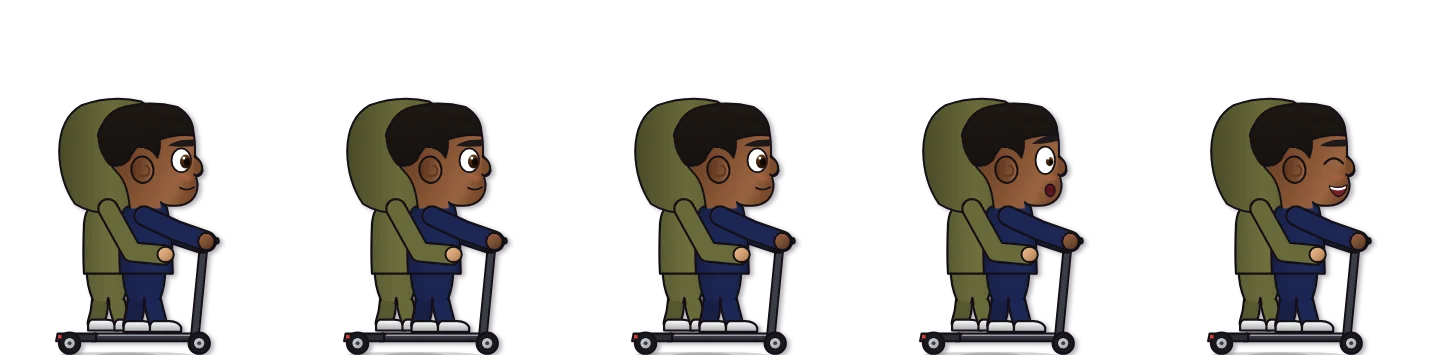
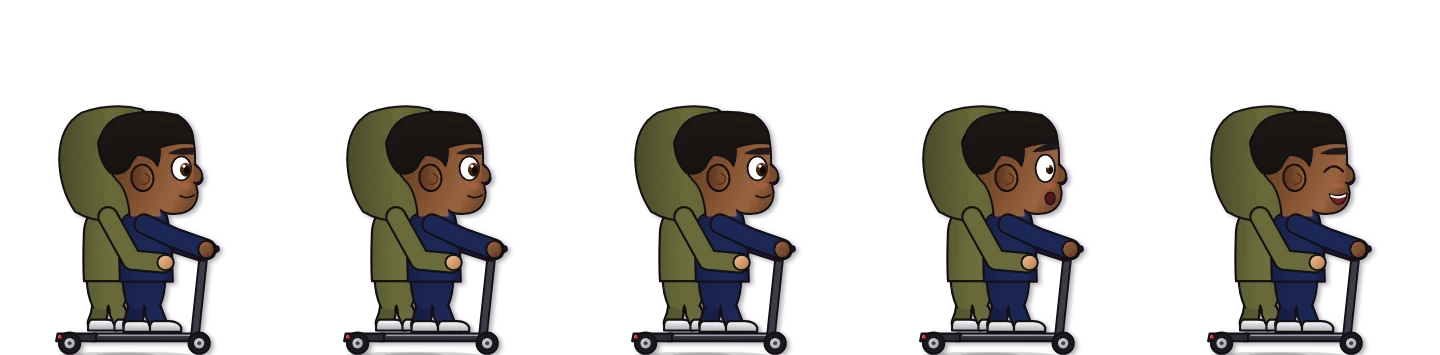
Jummah Dash: e-scooter riders' legs 35% shorter too (handlebar follows)
Claude-Session: https://claude.ai/code/session_01YJ1z4udzgwtjsqdwzKAzGp

diff --git a/jummahdash/demo/game.js b/jummahdash/demo/game.js
@@ -52,7 +52,7 @@ const HERO_FR = ['run0_normal', 'run1_normal', 'run2_normal', 'run3_normal', 'ru
 const FR = n => HERO_FR.indexOf(n);
 let NPC_META = {};   // filled from art/npc.json (hd/build_npc_v3.py)
 let NPC_KEYS = [], ESC_KEYS = [], CHAIR_KEYS = [], NPC_W = 0;
-const NPC_H = {"pc_m": "3558e2cda4", "pc_f": "d3ca09098e", "pcso": "97082a3efa", "warden": "3111be9fb0", "fan_dad": "685ba5be8c", "fan_f": "bd2f3ff5bf", "fan_kid": "ce309ba878", "blonde": "bdc4a1a155", "abaya": "3f5693513d", "teen": "e0cc4f3780", "aunty": "e6aa4be39c", "uncle": "b8076a8d1d", "nurse": "8d7181607e", "elder": "f06b987256", "builder": "e66dda48a2", "rider": "76f9a2c0ff", "rider_g": "705462ce67", "rider_o": "904b220e1a", "schoolboy": "fd1a660784", "shop": "400b7208b0", "lad": "5427630c3b", "postie": "01e27b9c50", "sehri": "f463041407", "v_woman_0": "5174f35921", "v_woman_1": "160b83ea5e", "v_woman_2": "8ef4b19768", "v_woman_3": "7a35813ecb", "v_woman_4": "16ee36be5c", "v_woman_5": "83d4fb0181", "v_woman_6": "407c80ecfb", "v_woman_7": "5987da499e", "v_hijabi_0": "763c4231c8", "v_hijabi_1": "a50539b123", "v_hijabi_2": "cbdbcd5e34", "v_hijabi_3": "727ada3a77", "v_hijabi_4": "c690619a5b", "v_hijabi_5": "93c9cb65db", "v_hijabi_6": "16ff68d51b", "v_hijabi_7": "ee08c0e916", "v_aunty_0": "e6aa4be39c", "v_aunty_1": "30e65c18fe", "v_aunty_2": "17dbb70caa", "v_aunty_3": "d36c2caf13", "v_aunty_4": "8a78cc31b6", "v_aunty_5": "784a64fe7d", "v_man_0": "82ab48d725", "v_man_1": "ff5f9fdf62", "v_man_2": "88b0f2215e", "v_man_3": "6640292e19", "v_man_4": "ba3268830d", "v_man_5": "1d56a6a4cd", "v_man_6": "81bc514887", "v_man_7": "8d80a093c2", "v_student_0": "9b4d21a6c7", "v_student_1": "60ebba8183", "v_student_2": "05c32aba56", "v_student_3": "8cc9c764ab", "v_student_4": "750a752d5a", "v_student_5": "1b65ef83b6", "v_student_6": "0caeb47d16", "v_student_7": "6bf4f6fcb9", "v_student_8": "aa9dd5c10a", "v_student_9": "2c85c26c46", "v_police_0": "255816cb35", "v_police_1": "6bfb092797", "v_police_2": "af49ff93a0", "v_police_3": "50ea5153f0", "v_police_4": "6bfb092797", "v_police_5": "af49ff93a0", "v_nurse_0": "58010a757c", "v_nurse_1": "bacb097ccf", "v_nurse_2": "cd26ce8066", "v_nurse_3": "1f332206f9", "v_nurse_4": "58010a757c", "v_builder_0": "ef6c0e90e0", "v_builder_1": "71794ba105", "v_builder_2": "1d512e945c", "v_builder_3": "a148dc5162", "v_builder_4": "0305b4ca00", "v_fan_0": "d3a10a47a2", "v_fan_1": "cc020b4723", "v_fan_2": "87c66ce327", "v_fan_3": "0531fe318e", "v_fan_4": "43009cf915", "chair_0": "50f7860105", "chair_1": "aa1323b9dc", "chair_2": "59380dcac0", "chair_3": "1d3aebd3d0", "chair_4": "99bd61c919", "chair_5": "a19d80c6e7", "chair_6": "7cbeb253a5", "chair_7": "91b79ad117", "v_fandad_0": "4ec464e923", "v_fandad_1": "754eb33e55", "v_fandad_2": "d3b2b24118", "v_fandad_3": "18746e07df", "eesc_a": "a2ac5d8aed", "eesc_b": "35d3514fc0", "eesc_c": "58d3d153a3", "mobility": "4f2caa3907"}; const npcImg = {};
+const NPC_H = {"pc_m": "3558e2cda4", "pc_f": "d3ca09098e", "pcso": "97082a3efa", "warden": "3111be9fb0", "fan_dad": "685ba5be8c", "fan_f": "bd2f3ff5bf", "fan_kid": "ce309ba878", "blonde": "bdc4a1a155", "abaya": "3f5693513d", "teen": "e0cc4f3780", "aunty": "e6aa4be39c", "uncle": "b8076a8d1d", "nurse": "8d7181607e", "elder": "f06b987256", "builder": "e66dda48a2", "rider": "76f9a2c0ff", "rider_g": "705462ce67", "rider_o": "904b220e1a", "schoolboy": "fd1a660784", "shop": "400b7208b0", "lad": "5427630c3b", "postie": "01e27b9c50", "sehri": "f463041407", "v_woman_0": "5174f35921", "v_woman_1": "160b83ea5e", "v_woman_2": "8ef4b19768", "v_woman_3": "7a35813ecb", "v_woman_4": "16ee36be5c", "v_woman_5": "83d4fb0181", "v_woman_6": "407c80ecfb", "v_woman_7": "5987da499e", "v_hijabi_0": "763c4231c8", "v_hijabi_1": "a50539b123", "v_hijabi_2": "cbdbcd5e34", "v_hijabi_3": "727ada3a77", "v_hijabi_4": "c690619a5b", "v_hijabi_5": "93c9cb65db", "v_hijabi_6": "16ff68d51b", "v_hijabi_7": "ee08c0e916", "v_aunty_0": "e6aa4be39c", "v_aunty_1": "30e65c18fe", "v_aunty_2": "17dbb70caa", "v_aunty_3": "d36c2caf13", "v_aunty_4": "8a78cc31b6", "v_aunty_5": "784a64fe7d", "v_man_0": "82ab48d725", "v_man_1": "ff5f9fdf62", "v_man_2": "88b0f2215e", "v_man_3": "6640292e19", "v_man_4": "ba3268830d", "v_man_5": "1d56a6a4cd", "v_man_6": "81bc514887", "v_man_7": "8d80a093c2", "v_student_0": "9b4d21a6c7", "v_student_1": "60ebba8183", "v_student_2": "05c32aba56", "v_student_3": "8cc9c764ab", "v_student_4": "750a752d5a", "v_student_5": "1b65ef83b6", "v_student_6": "0caeb47d16", "v_student_7": "6bf4f6fcb9", "v_student_8": "aa9dd5c10a", "v_student_9": "2c85c26c46", "v_police_0": "255816cb35", "v_police_1": "6bfb092797", "v_police_2": "af49ff93a0", "v_police_3": "50ea5153f0", "v_police_4": "6bfb092797", "v_police_5": "af49ff93a0", "v_nurse_0": "58010a757c", "v_nurse_1": "bacb097ccf", "v_nurse_2": "cd26ce8066", "v_nurse_3": "1f332206f9", "v_nurse_4": "58010a757c", "v_builder_0": "ef6c0e90e0", "v_builder_1": "71794ba105", "v_builder_2": "1d512e945c", "v_builder_3": "a148dc5162", "v_builder_4": "0305b4ca00", "v_fan_0": "d3a10a47a2", "v_fan_1": "cc020b4723", "v_fan_2": "87c66ce327", "v_fan_3": "0531fe318e", "v_fan_4": "43009cf915", "chair_0": "50f7860105", "chair_1": "aa1323b9dc", "chair_2": "59380dcac0", "chair_3": "1d3aebd3d0", "chair_4": "99bd61c919", "chair_5": "a19d80c6e7", "chair_6": "7cbeb253a5", "chair_7": "91b79ad117", "v_fandad_0": "4ec464e923", "v_fandad_1": "754eb33e55", "v_fandad_2": "d3b2b24118", "v_fandad_3": "18746e07df", "eesc_a": "e907355984", "eesc_b": "576b803538", "eesc_c": "8155bd2a06", "mobility": "4f2caa3907"}; const npcImg = {};
 const npcGet = k => npcImg[k] || (npcImg[k] = img('art/npc_' + k + '.webp?h=' + (NPC_H[k] || 1)));   // loaded the first time someone of that kind walks on
 fetch('art/npc.json?h=cb2784f590').then(r => r.json()).then(m => { NPC_META = m; const K = Object.keys(m);
   NPC_KEYS = K.filter(k => m[k].type === 'walk'); ESC_KEYS = K.filter(k => m[k].type === 'esc' && k[0] === 'e'); CHAIR_KEYS = K.filter(k => k.startsWith('chair_'));

diff --git a/jummahdash/demo/sw.js b/jummahdash/demo/sw.js
@@ -1,11 +1,11 @@
 /* Jummah Dash: keeps the whole game on the phone. First visit downloads it once;
    after that it opens from the phone, and an update only downloads the files that changed. */
-const BUILD = '20261122160322';
+const BUILD = '20261122160524';
 const FILES = {
 "hd/landmarks_hd.js": "3529926a9b",
 "hd/cars_v3.js": "0f6989a22c",
 "hd/foodbank.png": "8f4400d5e6",
-"game.js": "d467d317d8",
+"game.js": "d76f2e1d3d",
 "landmarks.js": "44e96a5cad",
 "vehicles.js": "32fdac20ce",
 "manifest.webmanifest": "636eadba05",
@@ -235,9 +235,9 @@ const FILES = {
 "art/npc_v_fandad_1.webp": "754eb33e55",
 "art/npc_v_fandad_2.webp": "d3b2b24118",
 "art/npc_v_fandad_3.webp": "18746e07df",
-"art/npc_eesc_a.webp": "a2ac5d8aed",
-"art/npc_eesc_b.webp": "35d3514fc0",
-"art/npc_eesc_c.webp": "58d3d153a3",
+"art/npc_eesc_a.webp": "e907355984",
+"art/npc_eesc_b.webp": "576b803538",
+"art/npc_eesc_c.webp": "8155bd2a06",
 "art/npc_mobility.webp": "4f2caa3907"
 };          // { path: hash } for every file the game uses
 const CACHE = 'jd-' + BUILD;

diff --git a/jummahdash/demo/game.html b/jummahdash/demo/game.html
@@ -265,6 +265,6 @@ canvas{position:absolute;inset:0;width:100%;height:100%;display:block}
 <script src="vehicles.js?h=32fdac20ce"></script>
 <script src="hd/cars_v3.js?h=0f6989a22c"></script>
 <script src="hd/landmarks_hd.js?h=3529926a9b"></script>
-<script src="game.js?h=d467d317d8"></script>
+<script src="game.js?h=d76f2e1d3d"></script>
 </body>
 </html>

diff --git a/CLAUDE.md b/CLAUDE.md
@@ -145,7 +145,7 @@ Owner: Summar (SMR Graphics / SMR Digital / SMR Plates, Luton). He edits the sit
 - Workflow: `git pull --rebase` before you start and before you push; commit only your file(s); run `python3 .github/tools/fk3d_shot.py road /tmp/x.jpg` (and `pipes`) and fix any JS errors before pushing; compare its steps/s number before and after your change (a big drop = too heavy). Add a line for your work under "Flappy Kabootar" → "3D test" in this file only if you are the Engine chat; others put their notes as a comment at the top of their own file.
 
 ## Jummah Dash demo (`/jummahdash/demo/`)
-- Hidden demo (not linked, noindex) of Jummah Dash, an SMR Original: Jetpack Joyride-style landscape runner set in Luton (hold to fly with the pressure-cooker jetpack, £1 coins, sparking cables, firework rockets with a warning; cast walk on the wide front pavement, traffic behind never touches the pavement). index.php serves game.html with no-cache; game.js + copies of Flappy's landmarks.js/vehicles.js (drawn at screen resolution) + art/ (hero sprite sheet, cast sprites, logo, badge). Work folder /home/claude/jummah-dash (master); deploy with `python3 deploy.py` there (copies files, stamps each with its own content hash ?h=, writes sw.js from sw.template.js). Installable app: manifest.webmanifest + art/icon-*.png, service worker sw.js keeps the whole game on the phone (opens offline; an update only downloads the files whose hash changed; new version takes over when the home screen is showing), loading screen #load, "Get the app" tile (Android install prompt / iPhone Safari steps). Missions: 3 active (MISSIONS in game.js, localStorage jd_ms), stars, ranks. Shop (#shop, ITEMS in game.js, localStorage jd_shop): Utilities = head starts 500m/1000m (uncle's silver E10-style Corolla, drawCorolla; buttons #hsBox pop up as the run starts; no hazards during it, ends with 'CHEERS UNCLE!'), Second Chance (#saveMe, 3 s countdown, one per run), extra gadget slot; Gadgets (2 slots, 3rd buyable): Charity Tin (coin magnet), Ammi's Chappal (drop faster), Lucky Dates (rides x2), Eidi Pouch (Eidi x2), Golden Misbaha (start on a random ride); Outfits: classic, puffer, Eid thobe, Luton Town kit, Moroccan djellaba (hero sheets art/hero3_<outfit>.png from kabootar-jet/hero/draw_hd.py OUTFIT; home art stays the classic thobe). Rides from the gift box: tuk-tuk, magic carpet, Flappy Kabootar (SMR crossover: the exact Flappy pigeon art at 5x, hero hangs from its feet, tap to flap, pulls in coins) and gravity sandals (tap to flip between the pavement and the top of the screen). Rocket clusters of 3 after 700m. Buildings: every Flappy Kabootar landmark (window.LM_ORDER, 57) dealt as a shuffled deck like Flappy (all appear before any repeat; SETS frasers→station→hatfactory, Wardown field→lake→bridge→funfair, welcome→airport stay together), your own masjid skipped; LM_ANIM moving parts baked into each building picture at t=0. Buildings are drawn natively at ceil(on-screen px per unit) and fitted once to the exact screen size (KB = S*BS; drawn 1:1, no second resize). Houses and the far skyline are dealt from their own shuffled decks too (skyline never shows a building that's on the street). landmarks.js/vehicles.js are straight copies of flappy/ (re-copy when Flappy's buildings change). ?day=1 = midday sky (used for posters). HD redraws (owner, 21 Nov): every building is being redrawn at ~2x detail from the owner's reference photos in jummah-dash/hd/landmarks_hd.js (window.LANDMARKS_HD[key](c,x,G), unscaled Flappy units; the game applies SCALE + bakes LM_ANIM; falls back to Flappy's drawing when no HD version exists yet). Keep each building's Flappy footprint, layout, colours and every owner rule. Photo map: jummah-dash/hd/REFS.md (files in /mnt/user-data/uploads). Done: all 57 landmarks (21 Nov; proportions taken from the photos, e.g. Krispy one storey with windows tight under the fascia, Miami Crispy roof ≈0.3 and extension ≈0.5 of the shop height, Peri-Peri short upper storey + one long glass front; no people anywhere). landmarks_hd.js also replaces LM_ANIM.wardown/wardownbridge/funfair with HD versions (Jummah Dash only), loads hd/foodbank.png (owner's real Luton Foodbank logo; window.HD_READY, buildings redraw once it's in; the bay shows a big white van front-on with four shelves of green/blue crates either side, owner) and draws the real SMR mark from smr-mark.svg's path. Vehicles: carSprite draws the Flappy vehicle art through window.hdCtx (glossy body gradient + reflection band, thin outlines, sky-reflecting glass) and records the wheels (sprite.wh), whose rims + spokes are redrawn turning every frame (drawWheels); Currys vans go through it too. A jet crosses the sky every 25-50 s with a spreading, fading contrail (drawJet, window.__JET). Foodbank (owner's 35 York St photo): two grilled windows, plaques, door by the garage, red-brick edge, right wall 40% narrower, panel van front-on with a white front plate, crate shelves tucked behind the jambs. Airport (owner's photo): grey panel cladding, LLA block logo + London Luton Airport, white canopy on slim posts, warm-lit glazing, teal diamond panels, stair rails. Speed (21 Nov): building pictures are built one per frame from a queue (bakeQ, 900 units ahead), bCache 30, the hazy skyline copy is made once at half size (hazeCache 40), main canvas smoothing "low" (sprites are pre-sized), wheels without per-frame gradients, the Wardown bridge stays baked. Live animations: LM_ANIM parts are no longer baked into street pictures (LIVE_ANIM, drawn every frame at (b.x, G) scaled by BS*SCALE; skyline copies keep a still frame); drawTrain = HD Thameslink on the station viaduct every 9 s; drawTakeoff = plane climbing from behind the airport with a faint trail. Airport lettering redrawn to the owner's photo (LLA glyphs grow and step up, A = two 45° squares leaning together, name stretched under the whole mark, 1.4x). Street spacing (gapBetween in game.js): rows of houses join 60% of the time, shops can join a terrace, standalone buildings get 10-42 units either side, big stores/sites (BIG_LM) get 26-70 so nothing small sits against them; sets stay joined. Houses: window.HOUSES_HD (same keys as HOUSES; square bays under little hipped roofs, porches, tile-hung 1930s semi gable, uPVC windows with nets/blinds/curtains, dishes, aerials, downpipes, walls + hedges, bins; chimneys on the party walls). Buildings without an HD version get an automatic finishing pass (hdFinish in game.js: thinner outlines, glass reflections, light, grain). ?rich=1 fills the bank to £99,999 for testing. JJ round (21 Nov): no zoom at all (viewport + script in index.html blocks pinch, double-tap, ctrl+wheel, ctrl+/-; *{touch-action:pan-x pan-y}); death = tumble with flailing arms, bounces, squash, slides to a stop on his back; rockets white + longer with a smoke trail and JJ-style ! warning; zapper ends are metal capsules with a spiky glow; lasers purple-pink with a charge glow; £1 coins = 16-frame turning 12-sided nickel-brass coins with a shadow; pixel fonts remapped to smooth Mont/Oswald (@font-face Silk/PS in index.html); all NPC sheets rebuilt supersampled (hd/rebuild_npcs.py over kabootar-jet/cast/cast3.py, 2.5x then Lanczos, soft drop shadow) and hero sheets have a drop shadow (originals in art/orig/); tuk-tuk = yellow with a black stripe, black canopy, hero fully inside, exhaust; NITRO: tap = hop, hold = rocket flame, x1.8 speed, coin magnet, smashes through hazards without losing the ride ('SMASH!'), tank ~2.5 s, refills slowly + with coins, gauge above; carpet ripples like cloth with shaded folds, medallion and tassels; airport LLA mark = L, L and a three-diamond A with tops and bottoms on one line. Traffic (21 Nov, ported from Flappy: updateTraffic/spawnCar/drawTrafficCar in game.js): far lane drives left, near lane right, cars keep their own lane space and queue behind slower ones, overtake when the other lane is clear (rev sound, exhaust, drawn at the depth of the lane they pull into, abort if something comes), fly-pasts (SFX.zoom), police chases (window.__chase = 1), blue-light runs with traffic pulling in (siren / wail / nee-naw + air horn), rare spin-outs (window.__spin = 1) and head-ons (window.__headOn = 1) with smoke, fire, a jam and horns. Traffic sounds are in the SFX block after the main kit (engine model, siren, skid, crash, thudBig). window.__cars() lists the cars. Hero sheets now built by kabootar-jet/hero/build_sheet.py (copy in jummah-dash/hd/): 28 frames, new fall0-2_panic + fall0_ko (arms flung out, no joysticks) used for the death tumble, sit0-1_happy for the carpet (feet on it), hang frames = arm up behind the head; Flappy Kabootar ride: smaller exact Flappy pigeon (PK 3.2) flying nose-up, his arm reaches up and his fist grips its tail, Flappy physics (tap = vy -270, gravity 860), TAP TO FLAP for the first 3 s. Hero is now a smooth cartoon (owner's render): hd/hero_rig.js draws every pose with canvas curves in the same 48x58 cell (wavy swept-up hair with a soft fade, neck, side-on face with big eye, beard along the jaw, shaded thobe, metal cooker), hd/build_rig.py renders the 28-frame sheets at 6 px per unit to art/hero3*.webp (HX4 = 6 in game.js). Prius taxi redrawn from the owner's photos (vehicles.js V.taxi, Flappy copy too). Hero matched to the owner's reference sheet (21 Nov): head centred over the shoulders, hair swept back in layers, tall cooker with latches, neck filling the gap behind the beard, no collar, no joint line at the shoulder, thumb over the red button. Pigeon ride: he holds it by its feet with a bent arm (elbow behind his head). Storey heights (owner, 22 Nov, not live yet): one set of real measurements for every street building (UK shopfront guides + storey heights): shop door 2.1-2.2 m, shopfront glass to 2.4 m, fascia 2.4-3.2 m, first-floor sills 3.6 m / heads ~4.9 m, two-storey eaves 5.6 m, second floor 6.3-7.6 m, parapets ~8.4 m; houses match (door 2.05 m, sills 3.5 m, eaves 5.55 m; every house type JKH 1.17, pitched roofs ~2.4 m). hd/landmarks_hd.js REFLOOR remaps each shop drawing's own heights (kahwa, gna, topspizza, alquds, toros, krispy, oak) onto those metres at 20 units a metre (JK = 19.9 / (SCALE * 20)). Cycle King redrawn in metres (three blocks: 3/2/3 storeys, windows on their floors, towers 10.2 m). B&Q body 10.75 m with TRADE POINT / GARDEN CENTRE boards, entrance block 13.5 m (JK 1.09). Sixth form wings two storeys of classrooms (4 m a floor, 8.6 m), atrium 12.4 m, entrance doors 2.3-2.4 m. Luton Hoo: hexastyle portico (six columns) and full-height bows at both ends (Historic England listing). Toro's redrawn from the owner's Street View of 52-54 Bute St (both games, w 230, in metres): two matching bays (narrow / wide window in a white pilastered surround / narrow, pediment over each surround, three windows on the second floor), dentil cornice + white parapet, the flats' black door in a white strip at the left so the shop doesn't start at the edge, black fascia (bull, EST 2009, TORO'S, STEAKHOUSE, halal roundel, web address), living-wall piers, 4 windows, recessed door right; no hanging sign, lamppost or street signs (owner); Flappy GLOW_R toros moved to the new windows. Murganos (murganos, new landmark after Toro's in both games, w 186, SCALE .82, in metres) from the owner's photos of 53 Bute St: 1930s four-storey block, brick piers, three floors of tall white steel windows (each a house door tall, 2.05 m) with black spandrel panels between (1 m; LVI mark on the narrow bay), cream parapet (1.25 m) with fluted deco blocks, cream band over the shops; Webs N Roots entrance on the left (its sign + glass door), Murganos up two steps: timber cladding, yellow letters with a chilli g, black awning (53 / FAMOUS FLAME GRILLED CHICKEN / phone), four bi-fold windows, food photos; building cut off at those two fronts, no lamppost (owner). Flappy got the same in pixel style (Cycle King floors, sixth form wings + doors, B&Q height, Luton Hoo). Building heights doc: claude/jummah-dash-building-scale.md. Hero v3 (owner-approved 22 Nov, now in the game): drawn from scratch over the owner's reference art in hd/hero_v3.js (heroV3(c, pose, t, face) in a 700x1200 frame, ground 1140): thick outlines, head and neck filled as one with a single outline round skull, face, beard and down the back of the neck, beard fades in at the sideburn and has no lines of its own, blocky tapering brow, one-piece thobe, strap round the shoulder with the arm in front, no thumb on the button, old-style shoes with the heel lined up with the leg. hd/build_v3.py renders the 28 frames into art/hero3*.webp (288x348 cells, scale .303); every outfit uses the classic look until the outfits are redrawn in this style. Legs 35% shorter (owner 22 Nov, easier to dodge): hero_v3.js squashes the leg points hip→ankle by .65 (ankles stay on the ground line, shoes keep their size) and drops everything above the hips by the same amount (LD), thobe hem squashed to match; npc_v3.js does the same for every walker (SQ poses; riding/seated poses unchanged; garments below the hips go through the squashed P; cane and shoulder-kid follow); hero hit circles lowered to match (heroCircles). Rebuilt with build_v3.py and build_npc_v3.py. New vehicles (both vehicles.js copies): V.bigvan (Sprinter-shaped panel van, in traffic) and V.mobility (mobility scooter with an older gent; in Jummah Dash it trundles along the front pavement every 35-85 s, drawn 1.75x, mobs[] in game.js).
+- Hidden demo (not linked, noindex) of Jummah Dash, an SMR Original: Jetpack Joyride-style landscape runner set in Luton (hold to fly with the pressure-cooker jetpack, £1 coins, sparking cables, firework rockets with a warning; cast walk on the wide front pavement, traffic behind never touches the pavement). index.php serves game.html with no-cache; game.js + copies of Flappy's landmarks.js/vehicles.js (drawn at screen resolution) + art/ (hero sprite sheet, cast sprites, logo, badge). Work folder /home/claude/jummah-dash (master); deploy with `python3 deploy.py` there (copies files, stamps each with its own content hash ?h=, writes sw.js from sw.template.js). Installable app: manifest.webmanifest + art/icon-*.png, service worker sw.js keeps the whole game on the phone (opens offline; an update only downloads the files whose hash changed; new version takes over when the home screen is showing), loading screen #load, "Get the app" tile (Android install prompt / iPhone Safari steps). Missions: 3 active (MISSIONS in game.js, localStorage jd_ms), stars, ranks. Shop (#shop, ITEMS in game.js, localStorage jd_shop): Utilities = head starts 500m/1000m (uncle's silver E10-style Corolla, drawCorolla; buttons #hsBox pop up as the run starts; no hazards during it, ends with 'CHEERS UNCLE!'), Second Chance (#saveMe, 3 s countdown, one per run), extra gadget slot; Gadgets (2 slots, 3rd buyable): Charity Tin (coin magnet), Ammi's Chappal (drop faster), Lucky Dates (rides x2), Eidi Pouch (Eidi x2), Golden Misbaha (start on a random ride); Outfits: classic, puffer, Eid thobe, Luton Town kit, Moroccan djellaba (hero sheets art/hero3_<outfit>.png from kabootar-jet/hero/draw_hd.py OUTFIT; home art stays the classic thobe). Rides from the gift box: tuk-tuk, magic carpet, Flappy Kabootar (SMR crossover: the exact Flappy pigeon art at 5x, hero hangs from its feet, tap to flap, pulls in coins) and gravity sandals (tap to flip between the pavement and the top of the screen). Rocket clusters of 3 after 700m. Buildings: every Flappy Kabootar landmark (window.LM_ORDER, 57) dealt as a shuffled deck like Flappy (all appear before any repeat; SETS frasers→station→hatfactory, Wardown field→lake→bridge→funfair, welcome→airport stay together), your own masjid skipped; LM_ANIM moving parts baked into each building picture at t=0. Buildings are drawn natively at ceil(on-screen px per unit) and fitted once to the exact screen size (KB = S*BS; drawn 1:1, no second resize). Houses and the far skyline are dealt from their own shuffled decks too (skyline never shows a building that's on the street). landmarks.js/vehicles.js are straight copies of flappy/ (re-copy when Flappy's buildings change). ?day=1 = midday sky (used for posters). HD redraws (owner, 21 Nov): every building is being redrawn at ~2x detail from the owner's reference photos in jummah-dash/hd/landmarks_hd.js (window.LANDMARKS_HD[key](c,x,G), unscaled Flappy units; the game applies SCALE + bakes LM_ANIM; falls back to Flappy's drawing when no HD version exists yet). Keep each building's Flappy footprint, layout, colours and every owner rule. Photo map: jummah-dash/hd/REFS.md (files in /mnt/user-data/uploads). Done: all 57 landmarks (21 Nov; proportions taken from the photos, e.g. Krispy one storey with windows tight under the fascia, Miami Crispy roof ≈0.3 and extension ≈0.5 of the shop height, Peri-Peri short upper storey + one long glass front; no people anywhere). landmarks_hd.js also replaces LM_ANIM.wardown/wardownbridge/funfair with HD versions (Jummah Dash only), loads hd/foodbank.png (owner's real Luton Foodbank logo; window.HD_READY, buildings redraw once it's in; the bay shows a big white van front-on with four shelves of green/blue crates either side, owner) and draws the real SMR mark from smr-mark.svg's path. Vehicles: carSprite draws the Flappy vehicle art through window.hdCtx (glossy body gradient + reflection band, thin outlines, sky-reflecting glass) and records the wheels (sprite.wh), whose rims + spokes are redrawn turning every frame (drawWheels); Currys vans go through it too. A jet crosses the sky every 25-50 s with a spreading, fading contrail (drawJet, window.__JET). Foodbank (owner's 35 York St photo): two grilled windows, plaques, door by the garage, red-brick edge, right wall 40% narrower, panel van front-on with a white front plate, crate shelves tucked behind the jambs. Airport (owner's photo): grey panel cladding, LLA block logo + London Luton Airport, white canopy on slim posts, warm-lit glazing, teal diamond panels, stair rails. Speed (21 Nov): building pictures are built one per frame from a queue (bakeQ, 900 units ahead), bCache 30, the hazy skyline copy is made once at half size (hazeCache 40), main canvas smoothing "low" (sprites are pre-sized), wheels without per-frame gradients, the Wardown bridge stays baked. Live animations: LM_ANIM parts are no longer baked into street pictures (LIVE_ANIM, drawn every frame at (b.x, G) scaled by BS*SCALE; skyline copies keep a still frame); drawTrain = HD Thameslink on the station viaduct every 9 s; drawTakeoff = plane climbing from behind the airport with a faint trail. Airport lettering redrawn to the owner's photo (LLA glyphs grow and step up, A = two 45° squares leaning together, name stretched under the whole mark, 1.4x). Street spacing (gapBetween in game.js): rows of houses join 60% of the time, shops can join a terrace, standalone buildings get 10-42 units either side, big stores/sites (BIG_LM) get 26-70 so nothing small sits against them; sets stay joined. Houses: window.HOUSES_HD (same keys as HOUSES; square bays under little hipped roofs, porches, tile-hung 1930s semi gable, uPVC windows with nets/blinds/curtains, dishes, aerials, downpipes, walls + hedges, bins; chimneys on the party walls). Buildings without an HD version get an automatic finishing pass (hdFinish in game.js: thinner outlines, glass reflections, light, grain). ?rich=1 fills the bank to £99,999 for testing. JJ round (21 Nov): no zoom at all (viewport + script in index.html blocks pinch, double-tap, ctrl+wheel, ctrl+/-; *{touch-action:pan-x pan-y}); death = tumble with flailing arms, bounces, squash, slides to a stop on his back; rockets white + longer with a smoke trail and JJ-style ! warning; zapper ends are metal capsules with a spiky glow; lasers purple-pink with a charge glow; £1 coins = 16-frame turning 12-sided nickel-brass coins with a shadow; pixel fonts remapped to smooth Mont/Oswald (@font-face Silk/PS in index.html); all NPC sheets rebuilt supersampled (hd/rebuild_npcs.py over kabootar-jet/cast/cast3.py, 2.5x then Lanczos, soft drop shadow) and hero sheets have a drop shadow (originals in art/orig/); tuk-tuk = yellow with a black stripe, black canopy, hero fully inside, exhaust; NITRO: tap = hop, hold = rocket flame, x1.8 speed, coin magnet, smashes through hazards without losing the ride ('SMASH!'), tank ~2.5 s, refills slowly + with coins, gauge above; carpet ripples like cloth with shaded folds, medallion and tassels; airport LLA mark = L, L and a three-diamond A with tops and bottoms on one line. Traffic (21 Nov, ported from Flappy: updateTraffic/spawnCar/drawTrafficCar in game.js): far lane drives left, near lane right, cars keep their own lane space and queue behind slower ones, overtake when the other lane is clear (rev sound, exhaust, drawn at the depth of the lane they pull into, abort if something comes), fly-pasts (SFX.zoom), police chases (window.__chase = 1), blue-light runs with traffic pulling in (siren / wail / nee-naw + air horn), rare spin-outs (window.__spin = 1) and head-ons (window.__headOn = 1) with smoke, fire, a jam and horns. Traffic sounds are in the SFX block after the main kit (engine model, siren, skid, crash, thudBig). window.__cars() lists the cars. Hero sheets now built by kabootar-jet/hero/build_sheet.py (copy in jummah-dash/hd/): 28 frames, new fall0-2_panic + fall0_ko (arms flung out, no joysticks) used for the death tumble, sit0-1_happy for the carpet (feet on it), hang frames = arm up behind the head; Flappy Kabootar ride: smaller exact Flappy pigeon (PK 3.2) flying nose-up, his arm reaches up and his fist grips its tail, Flappy physics (tap = vy -270, gravity 860), TAP TO FLAP for the first 3 s. Hero is now a smooth cartoon (owner's render): hd/hero_rig.js draws every pose with canvas curves in the same 48x58 cell (wavy swept-up hair with a soft fade, neck, side-on face with big eye, beard along the jaw, shaded thobe, metal cooker), hd/build_rig.py renders the 28-frame sheets at 6 px per unit to art/hero3*.webp (HX4 = 6 in game.js). Prius taxi redrawn from the owner's photos (vehicles.js V.taxi, Flappy copy too). Hero matched to the owner's reference sheet (21 Nov): head centred over the shoulders, hair swept back in layers, tall cooker with latches, neck filling the gap behind the beard, no collar, no joint line at the shoulder, thumb over the red button. Pigeon ride: he holds it by its feet with a bent arm (elbow behind his head). Storey heights (owner, 22 Nov, not live yet): one set of real measurements for every street building (UK shopfront guides + storey heights): shop door 2.1-2.2 m, shopfront glass to 2.4 m, fascia 2.4-3.2 m, first-floor sills 3.6 m / heads ~4.9 m, two-storey eaves 5.6 m, second floor 6.3-7.6 m, parapets ~8.4 m; houses match (door 2.05 m, sills 3.5 m, eaves 5.55 m; every house type JKH 1.17, pitched roofs ~2.4 m). hd/landmarks_hd.js REFLOOR remaps each shop drawing's own heights (kahwa, gna, topspizza, alquds, toros, krispy, oak) onto those metres at 20 units a metre (JK = 19.9 / (SCALE * 20)). Cycle King redrawn in metres (three blocks: 3/2/3 storeys, windows on their floors, towers 10.2 m). B&Q body 10.75 m with TRADE POINT / GARDEN CENTRE boards, entrance block 13.5 m (JK 1.09). Sixth form wings two storeys of classrooms (4 m a floor, 8.6 m), atrium 12.4 m, entrance doors 2.3-2.4 m. Luton Hoo: hexastyle portico (six columns) and full-height bows at both ends (Historic England listing). Toro's redrawn from the owner's Street View of 52-54 Bute St (both games, w 230, in metres): two matching bays (narrow / wide window in a white pilastered surround / narrow, pediment over each surround, three windows on the second floor), dentil cornice + white parapet, the flats' black door in a white strip at the left so the shop doesn't start at the edge, black fascia (bull, EST 2009, TORO'S, STEAKHOUSE, halal roundel, web address), living-wall piers, 4 windows, recessed door right; no hanging sign, lamppost or street signs (owner); Flappy GLOW_R toros moved to the new windows. Murganos (murganos, new landmark after Toro's in both games, w 186, SCALE .82, in metres) from the owner's photos of 53 Bute St: 1930s four-storey block, brick piers, three floors of tall white steel windows (each a house door tall, 2.05 m) with black spandrel panels between (1 m; LVI mark on the narrow bay), cream parapet (1.25 m) with fluted deco blocks, cream band over the shops; Webs N Roots entrance on the left (its sign + glass door), Murganos up two steps: timber cladding, yellow letters with a chilli g, black awning (53 / FAMOUS FLAME GRILLED CHICKEN / phone), four bi-fold windows, food photos; building cut off at those two fronts, no lamppost (owner). Flappy got the same in pixel style (Cycle King floors, sixth form wings + doors, B&Q height, Luton Hoo). Building heights doc: claude/jummah-dash-building-scale.md. Hero v3 (owner-approved 22 Nov, now in the game): drawn from scratch over the owner's reference art in hd/hero_v3.js (heroV3(c, pose, t, face) in a 700x1200 frame, ground 1140): thick outlines, head and neck filled as one with a single outline round skull, face, beard and down the back of the neck, beard fades in at the sideburn and has no lines of its own, blocky tapering brow, one-piece thobe, strap round the shoulder with the arm in front, no thumb on the button, old-style shoes with the heel lined up with the leg. hd/build_v3.py renders the 28 frames into art/hero3*.webp (288x348 cells, scale .303); every outfit uses the classic look until the outfits are redrawn in this style. Legs 35% shorter (owner 22 Nov, easier to dodge): hero_v3.js squashes the leg points hip→ankle by .65 (ankles stay on the ground line, shoes keep their size) and drops everything above the hips by the same amount (LD), thobe hem squashed to match; npc_v3.js does the same for every walker and the e-scooter riders (deck = their ground, handlebar lowered with them) (SQ poses; seated riders on bikes, mopeds, wheelchairs and mobility scooters unchanged: their feet must reach the pedals/footboards; garments below the hips go through the squashed P; cane and shoulder-kid follow); hero hit circles lowered to match (heroCircles). Rebuilt with build_v3.py and build_npc_v3.py. New vehicles (both vehicles.js copies): V.bigvan (Sprinter-shaped panel van, in traffic) and V.mobility (mobility scooter with an older gent; in Jummah Dash it trundles along the front pavement every 35-85 s, drawn 1.75x, mobs[] in game.js).
 
 - Cars v3 (22 Nov, not live until the owner says): the owner's ChatGPT car renders are the traffic cars. /tmp/gpt/build.py cuts each car out of its sheet, removes roof aerials/fins, splits the paint (art/cars/<k>_p.webp, lossless grey shading) from the rest (art/cars/<k>.webp: glass, lamps, trim; the old wheels cut out, arches dark) and finds the wheels; make_pics.py writes PICS into hd/cars_v3.js. The paint is recoloured per car at run time (tinted(), clear-coat gloss), drawn at its real length + height (mm, U = .0131), and our wheels (art/wheels.webp, 32 wheels from the owner's sheets, WHEEL map per car) turn behind the body at the car's own speed. Paint lists per make (UK common colours; supercars bright: GT3 pink/orange/lime/blue, Lambo orange/yellow, 812 red/green), frequency from SMMT cars-on-the-road (FREQ). Far lane drawn 10% smaller. Prius / older Prius as private cars + taxis (roof TAXI sign). Rare pair: yellow Mini tailgating the blue three-wheeler, flashing (window.__pair = 1). Wheels: each tyre is fitted to the car's own outline (circle fit), both ends the same size, the old wheel cut out and the whole arch painted solid black, so no white shows. Vans, lorries and emergency vehicles are the owner's renders too (police car + van, ambulance, fire engine, lorry cab, artic with container, bin lorry, Royal Mail van, small van, Sprinter; WOV2 axle positions in build.py), real sizes, liveries not repainted; bus, coach, pickup, Phantom, RS3 etc are off the road until new renders come. Buses (Arriva single + double-decker, National Express coach): renders without wheels, arches found automatically (/tmp/rides), black wells behind the wheels (well flag). Two-wheelers: hd/build_rides.py puts our NPC riders on the owner's moped/motorbike/bicycle bodies (poses 'ride' and 'cycle' in npc_v3.js: IK legs to the footboard / round the crank, leaning forward to the bars; helmet hat for the motorcyclist) into art/rides/<k>.webp frame strips + rides.json (copied into RIDES in cars_v3.js); delivery riders on their matching mopeds (teal box = blue, green = green, orange = orange), motorbike very rare, 5 cyclists pedalling (8 frames from c.roll); wheels drawn underneath (wheel sheet 42-49). Old motorbike/moped/bike/bus/coach drawings are off the road. Gift-box rides come from a shuffled deck kept in localStorage (jd_ridebag, never the same twice in a row); the Flappy Kabootar ride's wings flap all the time like the Flappy game (frames 0-1-2, .07 s rising / .14 s falling). Lettered vehicles stay in the near lane (NEAR_ONLY, text would read backwards). Blue lights: LIGHTS in cars_v3.js (roof r / bumper b / side s + headlights, fractions of the picture), flashing in two alternating groups with a double strobe, headlights wig-wag with them, whenever c.run or c.police. Owner sends a new render → add its sheet to SHEETS in build.py (and a WOV wheel fix if the wheels are missed). 22 Nov later: the whole arch opening (arch corner to arch corner along the bottom of the car) is solid black in every car picture and the wheels are drawn on top of it, centred, tyre on the road (no more wheels behind the body, so no cropped front wheels); WSZ in cars_v3.js makes the Corsa, A-Class, Focus (~10% smaller) and Tesla, Range Rover, XC40 (~5%) wheels smaller; the old A-Class (W176, aold) is off the road; every vehicle 30% bigger (U = .0131 × 1.3). Strict lanes in game.js: an overtake only starts if there's room in front of the car being passed (roomAfter), the overtaker only pulls back in when its lane is clear around it (slotFree), oncoming cars brake for an overtaker in their lane; never two cars overlapping in one lane.
 
